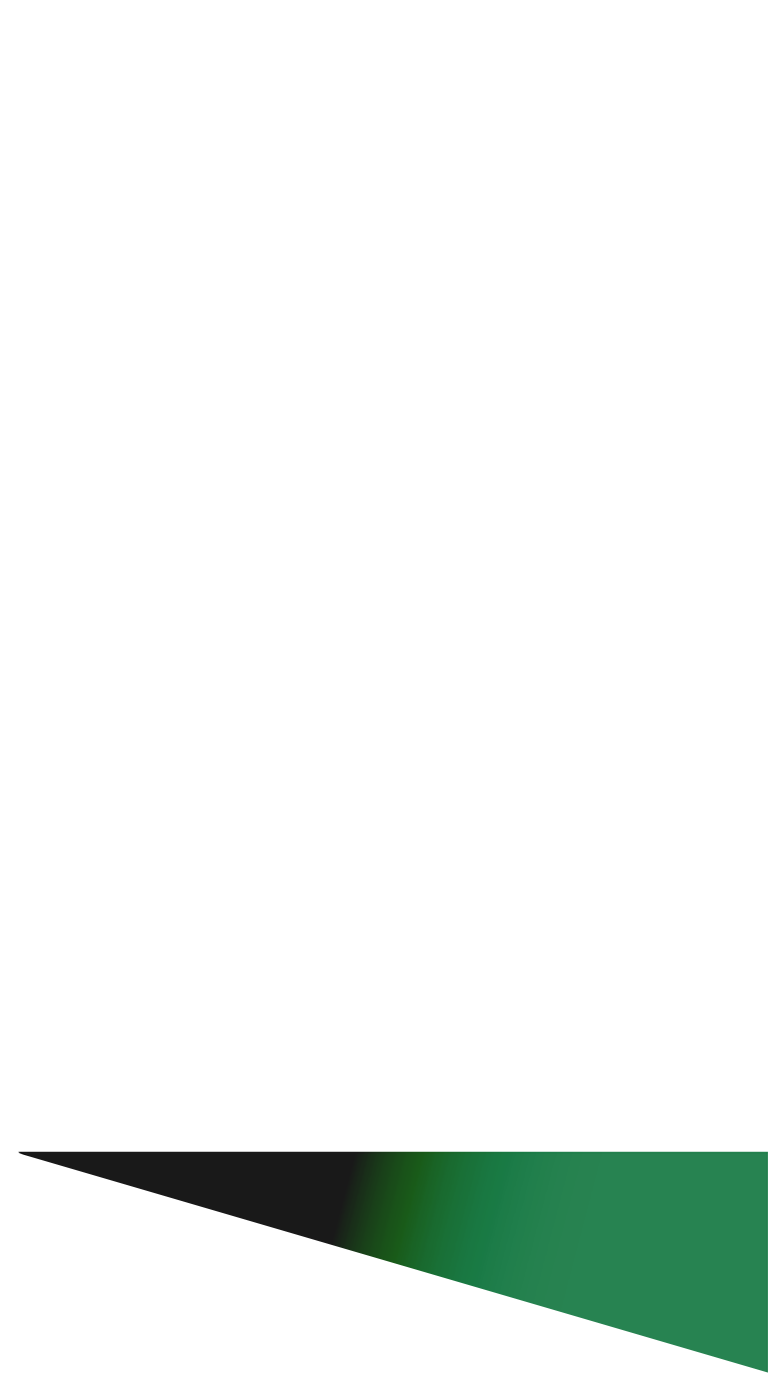
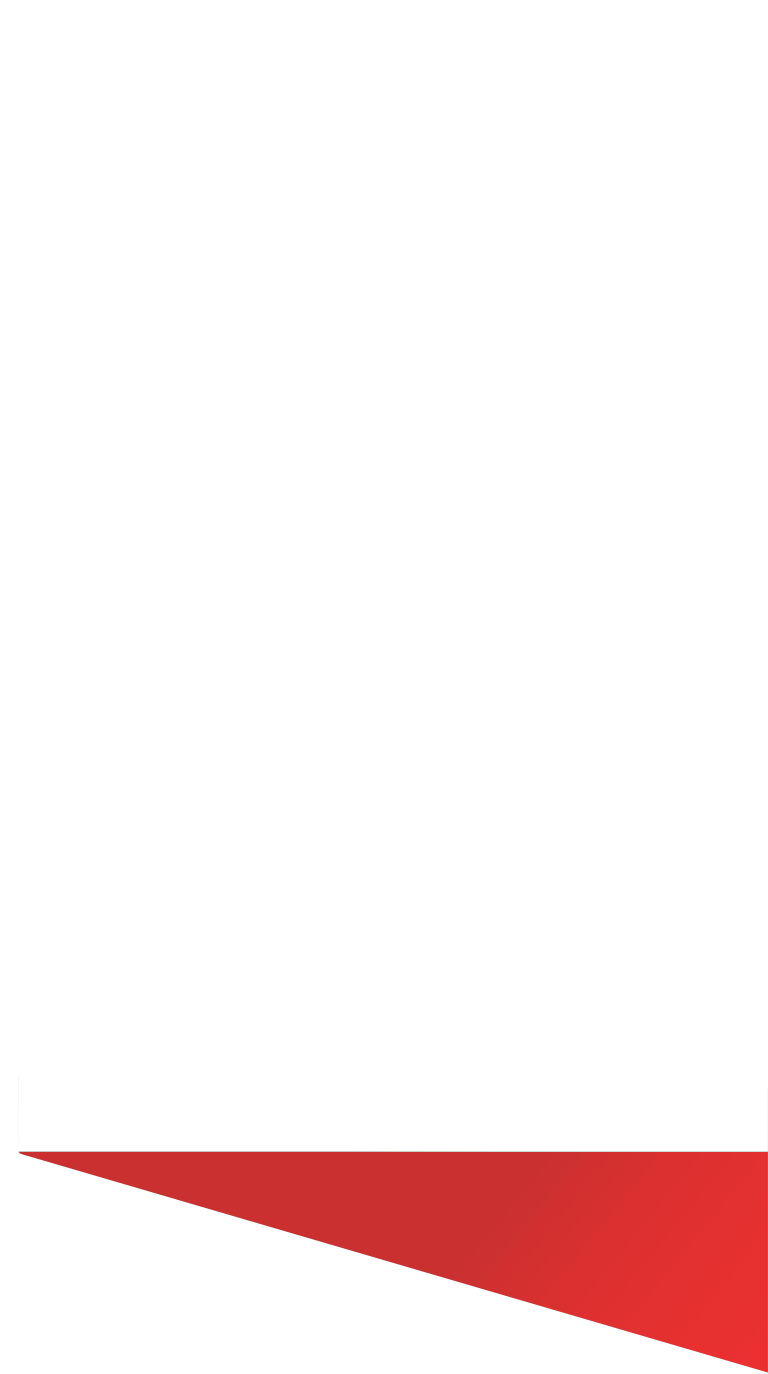
edit color theme

Changed region(s): [[0.0312, 0.8253, 1.0, 1.0]]

diff --git a/index.html b/index.html
@@ -69,28 +69,63 @@
             <div class="collapse navbar-collapse" id="navbarSupportedContent">
               <ul class="navbar-nav custom-navbar-nav mr-auto">
                 <li class="nav-item custom-menu">
-                  <a class="nav-link waves-effect" href="#!"
+                  <a
+                    class="nav-link waves-effect"
+                    href="#!"
+                    data-toggle="tooltip"
+                    data-placement="bottom"
+                    title="หนังสือ"
                     ><img src="./images/icon_menu1.png"
                   /></a>
                 </li>
                 <li class="nav-item custom-menu">
-                  <a class="nav-link waves-effect" href="#!"
+                  <a
+                    class="nav-link waves-effect"
+                    href="#!"
+                    data-toggle="tooltip"
+                    data-placement="bottom"
+                    title="แมกกาซีน"
                     ><img src="./images/icon_menu2.png"
                   /></a>
                 </li>
                 <li class="nav-item custom-menu">
-                  <a class="nav-link waves-effect" href="#!"
+                  <a
+                    class="nav-link waves-effect"
+                    href="#!"
+                    data-toggle="tooltip"
+                    data-placement="bottom"
+                    title="สื่อมัลติมีเดีย"
                     ><img src="./images/icon_menu3.png"
                   /></a>
                 </li>
                 <li class="nav-item custom-menu">
-                  <a class="nav-link waves-effect" href="#!"
+                  <a
+                    class="nav-link waves-effect"
+                    href="#!"
+                    data-toggle="tooltip"
+                    data-placement="bottom"
+                    title="ศูนย์ข้อมูลข่าวสาร"
                     ><img src="./images/icon_menu4.png"
                   /></a>
                 </li>
                 <li class="nav-item custom-menu">
-                  <a class="nav-link waves-effect" href="#!"
+                  <a
+                    class="nav-link waves-effect"
+                    href="#!"
+                    data-toggle="tooltip"
+                    data-placement="bottom"
+                    title="เว็บลิ้งค์"
                     ><img src="./images/icon_menu5.png"
+                  /></a>
+                </li>
+                <li class="nav-item custom-menu">
+                  <a
+                    class="nav-link waves-effect"
+                    href="#!"
+                    data-toggle="tooltip"
+                    data-placement="bottom"
+                    title="ยืม-คืนหนังสือ"
+                    ><img src="./images/icon_menu6.png"
                   /></a>
                 </li>
               </ul>
@@ -153,53 +188,95 @@
                   </div>
                   <div class="col-12">
                     <div
-                      class="row justify-content-center justify-content-lg-around"
+                      id="carousel-example-1z"
+                      class="carousel slide carousel-fade"
+                      data-ride="carousel"
                     >
-                      <div
-                        class="col-4 col-lg-2 my-3 text-center justify-content-center wow fadeIn"
-                      >
-                        <a href="#!">
-                          <div class="icon-menu-digital z-depth-3">
-                            <img src="./images/icon_menu1.png" class="" />
-                          </div>
-                        </a>
+                      <!--Indicators-->
+                      <ol class="carousel-indicators">
+                        <li
+                          data-target="#carousel-example-1z"
+                          data-slide-to="0"
+                          class="active"
+                        ></li>
+                        <li
+                          data-target="#carousel-example-1z"
+                          data-slide-to="1"
+                        ></li>
+                        <li
+                          data-target="#carousel-example-1z"
+                          data-slide-to="2"
+                        ></li>
+                        <li
+                          data-target="#carousel-example-1z"
+                          data-slide-to="3"
+                        ></li>
+                        <li
+                          data-target="#carousel-example-1z"
+                          data-slide-to="4"
+                        ></li>
+                      </ol>
+                      <!--/.Indicators-->
+                      <!--Slides-->
+                      <div class="carousel-inner" role="listbox">
+                        <div class="carousel-item active">
+                          <img
+                            class="d-block w-100"
+                            src="./images/slide/1.jpg"
+                          />
+                        </div>
+                        <div class="carousel-item">
+                          <img
+                            class="d-block w-100"
+                            src="./images/slide/2.jpg"
+                          />
+                        </div>
+                        <div class="carousel-item">
+                          <img
+                            class="d-block w-100"
+                            src="./images/slide/3.jpg"
+                          />
+                        </div>
+                        <div class="carousel-item">
+                          <img
+                            class="d-block w-100"
+                            src="./images/slide/4.jpg"
+                          />
+                        </div>
+                        <div class="carousel-item">
+                          <img
+                            class="d-block w-100"
+                            src="./images/slide/5.jpg"
+                          />
+                        </div>
                       </div>
-                      <div
-                        class="col-4 col-lg-2 my-3 text-center justify-content-center wow fadeIn"
+                      <!--/.Slides-->
+                      <!--Controls-->
+                      <a
+                        class="carousel-control-prev"
+                        href="#carousel-example-1z"
+                        role="button"
+                        data-slide="prev"
                       >
-                        <a href="#!">
-                          <div class="icon-menu-digital z-depth-3">
-                            <img src="./images/icon_menu2.png" class="" />
-                          </div>
-                        </a>
-                      </div>
-                      <div
-                        class="col-4 col-lg-2 my-3 text-center justify-content-center wow fadeIn"
+                        <span
+                          class="carousel-control-prev-icon"
+                          aria-hidden="true"
+                        ></span>
+                        <span class="sr-only">Previous</span>
+                      </a>
+                      <a
+                        class="carousel-control-next"
+                        href="#carousel-example-1z"
+                        role="button"
+                        data-slide="next"
                       >
-                        <a href="#!">
-                          <div class="icon-menu-digital z-depth-3">
-                            <img src="./images/icon_menu3.png" class="" />
-                          </div>
-                        </a>
-                      </div>
-                      <div
-                        class="col-4 col-lg-2 my-3 text-center justify-content-center wow fadeIn"
-                      >
-                        <a href="#!">
-                          <div class="icon-menu-digital z-depth-3">
-                            <img src="./images/icon_menu4.png" class="" />
-                          </div>
-                        </a>
-                      </div>
-                      <div
-                        class="col-4 col-lg-2 my-3 text-center justify-content-center wow fadeIn"
-                      >
-                        <a href="#!">
-                          <div class="icon-menu-digital z-depth-3">
-                            <img src="./images/icon_menu5.png" class="" />
-                          </div>
-                        </a>
-                      </div>
+                        <span
+                          class="carousel-control-next-icon"
+                          aria-hidden="true"
+                        ></span>
+                        <span class="sr-only">Next</span>
+                      </a>
+                      <!--/.Controls-->
                     </div>
                   </div>
                 </div>
@@ -260,6 +337,13 @@
                       ฉบับที่ 126 มิถุนายน-กรกฎาคม 2561
                     </p>
                     <img src="./images/journal.png" class="journal-img" />
+                    <a
+                      class="see_all"
+                      href="http://www.eppo.go.th/index.php/th/informationservices/ct-menu-item-52?orders[publishUp]=publishUp&issearch=1"
+                      target="_blank"
+                    >
+                      <p>ดูทั้งหมด</p>
+                    </a>
                   </div>
                 </div>
               </div>
@@ -273,7 +357,7 @@
                   <div
                     class="card-news-body white text-center card-news-height"
                   >
-                    <table class="table table-filling table-borderless">
+                    <table class="table table-filling table-borderless mb-0">
                       <thead>
                         <tr>
                           <th scope="col" class="text-left">ประเภท</th>
@@ -282,35 +366,42 @@
                       </thead>
                       <tbody>
                         <tr>
-                          <td class="text-left">แก๊สโซฮอล 91</td>
+                          <td class="text-left"><img src="./images/slide/oil_name1.png" class="img-oil"></td>
                           <td>26.08</td>
                         </tr>
                         <tr>
-                          <td class="text-left">แก๊สโซฮอล 95</td>
+                          <td class="text-left"><img src="./images/slide/oil_name2.png" class="img-oil"></td>
                           <td>26.35</td>
                         </tr>
                         <tr>
-                          <td class="text-left">แก๊สโซฮอล E20</td>
+                          <td class="text-left"><img src="./images/slide/oil_name3.png" class="img-oil"></td>
                           <td>23.34</td>
                         </tr>
                         <tr>
-                          <td class="text-left">แก๊สโซฮอล E85</td>
+                          <td class="text-left"><img src="./images/slide/oil_name4.png" class="img-oil"></td>
                           <td>19.34</td>
                         </tr>
                         <tr>
-                          <td class="text-left">ดีเซล</td>
+                          <td class="text-left"><img src="./images/slide/oil_name5.png" class="img-oil"></td>
                           <td>25.69</td>
                         </tr>
                         <tr>
-                          <td class="text-left">เบนซิน 95</td>
+                          <td class="text-left"><img src="./images/slide/oil_name6.png" class="img-oil"></td>
                           <td>33.76</td>
                         </tr>
                         <tr>
-                          <td class="text-left">ก๊าซ CNG (NGV)</td>
+                          <td class="text-left"><img src="./images/slide/oil_name7.png" class="img-oil"></td>
                           <td>16.07</td>
                         </tr>
                       </tbody>
                     </table>
+                    <a
+                      class="see_all"
+                      href="http://27.254.37.81/epposite/templates/eppo_v15_mixed/eppo_oil/eppo_oil_gen.php"
+                      target="_blank"
+                    >
+                      <p>ดูทั้งหมด</p>
+                    </a>
                   </div>
                 </div>
               </div>
@@ -676,5 +767,6 @@
   ></script>
   <script>
     new WOW().init();
+    $('[data-toggle="tooltip"]').tooltip();
   </script>
 </html>

diff --git a/css/style.css b/css/style.css
@@ -141,6 +141,9 @@ main {
   display: block;
   margin: 0 auto;
 }
+.img-oil{
+  height: 27px;
+}
 .icon-menu-footer {
   width: 80px;
   height: 80px;
@@ -185,8 +188,8 @@ main {
   margin-top: -14rem;
 }
 .textdigital {
-  text-shadow: 0 -1px 4px #fff, 0 -2px 10px rgb(255, 255, 0),
-    0 -10px 20px #ff8000, 0 -18px 40px #f00, 26px 9px 6px rgba(28, 110, 164, 0);
+  text-shadow: 0 -1px 4px #fff, 0 -2px 10px rgba(157, 255, 0, 0.87),
+    0 -10px 20px #a6ff00, 0 -18px 40px rgb(0, 255, 13), 26px 9px 6px rgba(28, 110, 164, 0);
   color: #ffffff;
   font-style: italic;
   font-size: 60px;
@@ -224,7 +227,11 @@ main {
   background-size: 100% 95%;
   background-position: top center;
   padding-top: 14rem;
-  margin-top: -8rem;
+  margin-top: -7rem;
+}
+a.see_all{
+  color: #10753e;
+  font-size: 18px;
 }
 .card-news {
   width: 100%;
@@ -232,7 +239,7 @@ main {
 }
 .card-news-header {
   padding: 0.2rem 0.8rem;
-  background-color: #10753e;
+  background-color: #f04f2d;
   position: relative;
 }
 .card-news-header::after {
@@ -429,6 +436,9 @@ p.card-news-detail {
   margin-bottom: 0;
   line-height: 24px;
 }
+.carousel-indicators .active{
+  background-color: #10753e;
+}
 .card-container-new-book {
   border-right: 1px solid #d1d3d4;
 }
@@ -446,9 +456,9 @@ p.card-news-detail {
 .carousel-inner-dvd {
   width: 80%;
   margin: 0 auto;
-  border-left: 6px solid #f04f2d;
-  border-right: 6px solid #f04f2d;
-  background-color: #f04f2d;
+  border-left: 6px solid #10753e;
+  border-right: 6px solid #10753e;
+  background-color: #10753e;
 }
 .carousel-control-custom {
   align-items: flex-end;

diff --git a/css/button.css b/css/button.css
@@ -1,0 +1,39 @@
+.tooltip-main {
+  width: 15px;
+  height: 15px;
+  border-radius: 50%;
+  font-weight: 700;
+  background: #f04f2d;
+  border: 1px solid #f04f2d;
+  color: #f04f2d;
+  margin: 4px 121px 0 5px;
+  float: right;
+  text-align: left !important;
+}
+
+.tooltip-qm {
+  float: left;
+  margin: -2px 0px 3px 4px;
+  font-size: 12px;
+}
+
+.tooltip-inner {
+  background: #ffc7bc;
+  font-size: 20px;
+  font-weight: 700;
+  padding-left: 15px;
+  padding-right: 15px;
+  color: rgb(0, 0, 0, 0.7);
+  border: 3px solid #f04f2d;
+  text-align: center;
+}
+
+.tooltip.show {
+  opacity: 1;
+}
+
+.bs-tooltip-auto[x-placement^="bottom"] .arrow::before,
+.bs-tooltip-bottom .arrow::before {
+  border-bottom-color: #f04f2d;
+  /* Red */
+}
